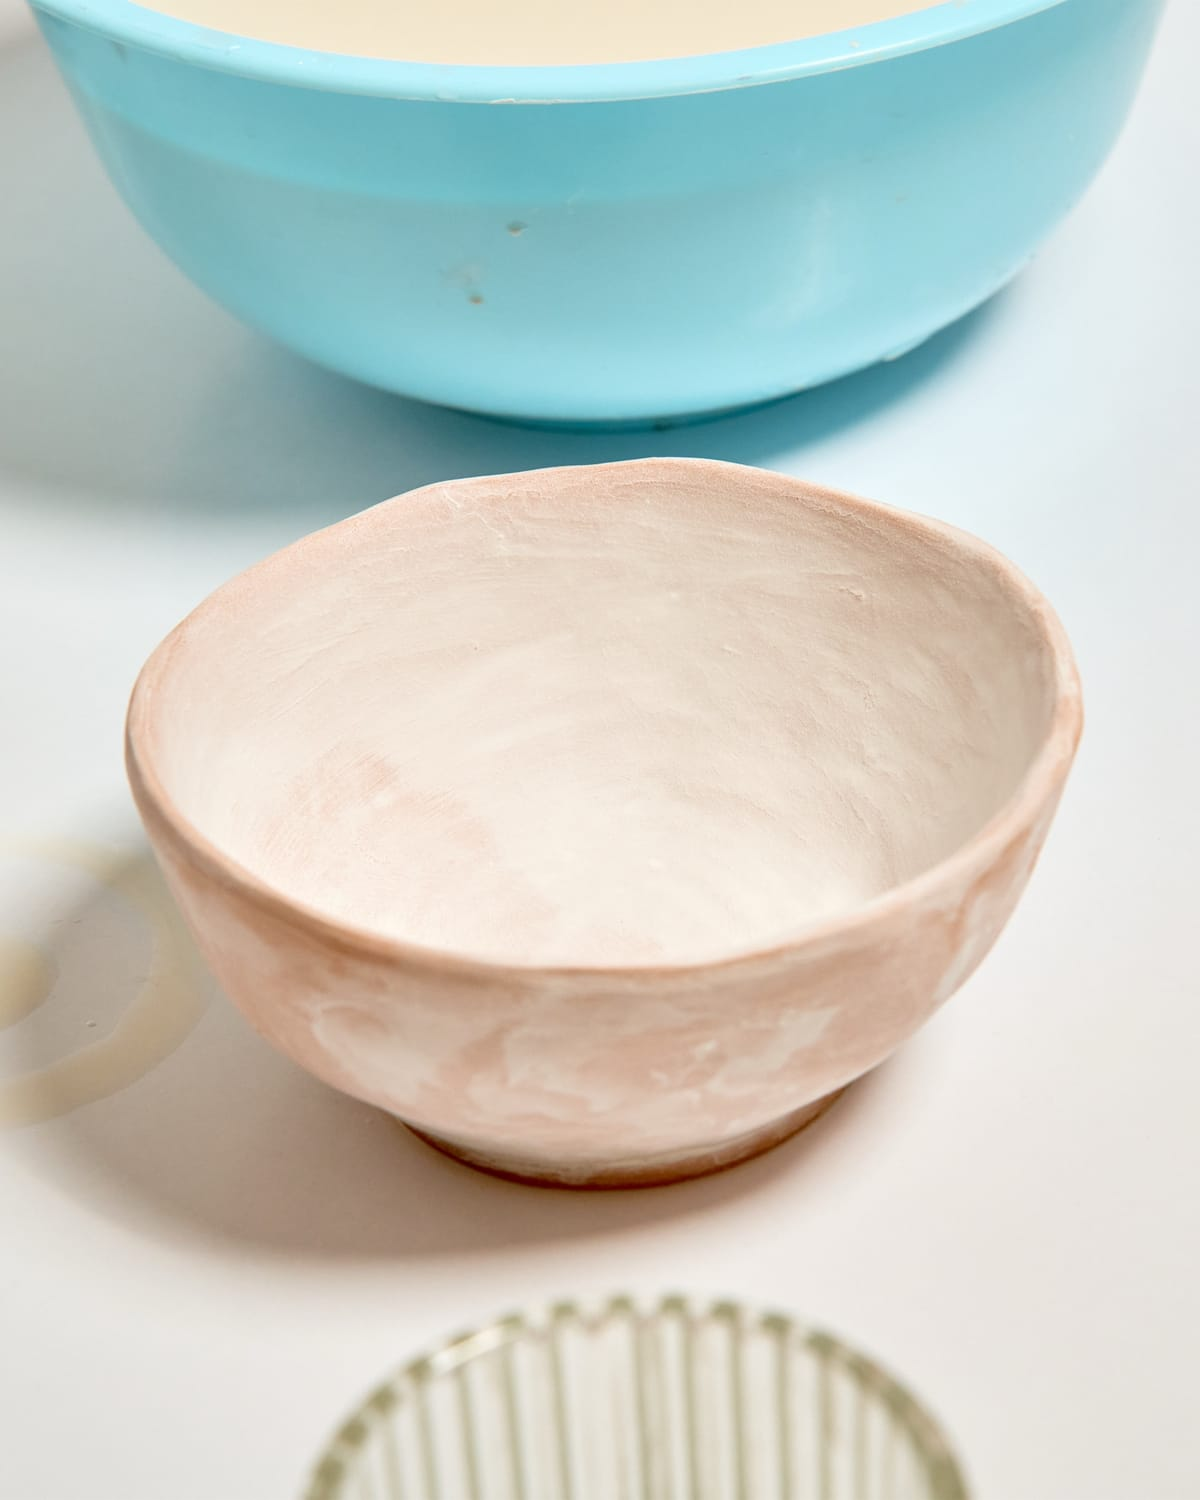
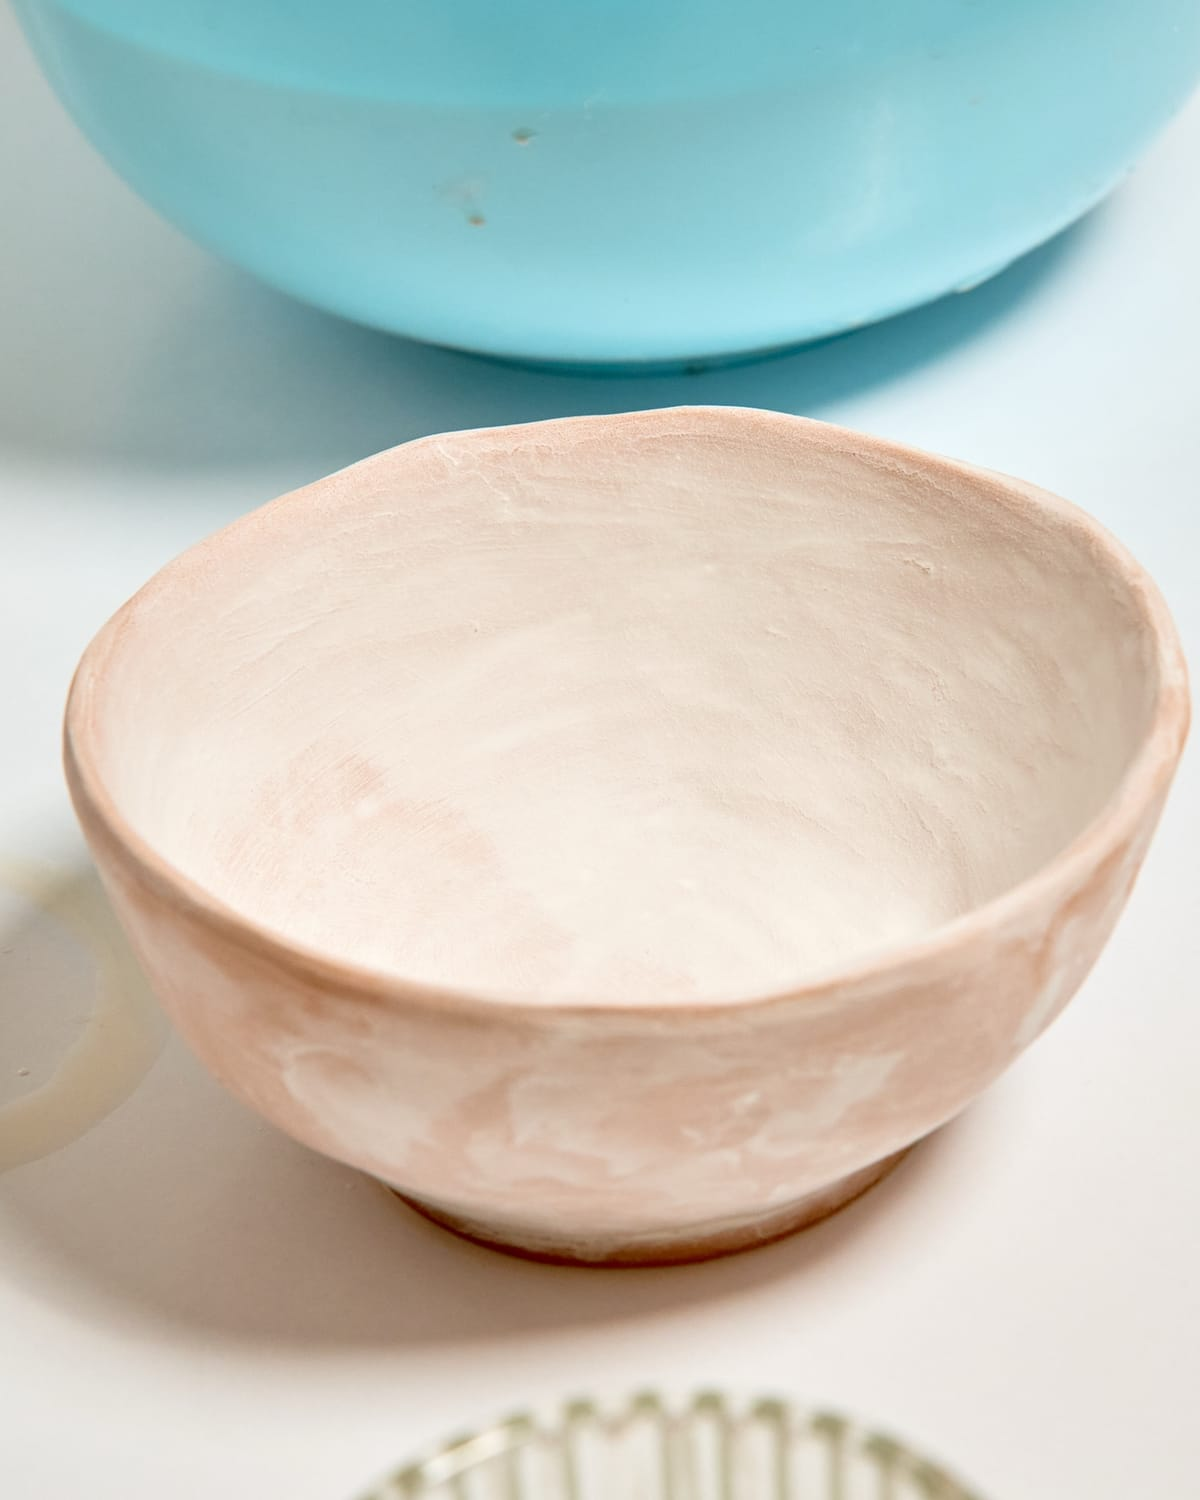
Home: apply designer review (compact form fits the hero, bare ranges in table cells, card 01 Big Dodzy photo, tighter market and studios crops, flush footer, 2-column phone footer, FAQ 16px)

diff --git a/src/app/(frontend)/page.tsx b/src/app/(frontend)/page.tsx
@@ -142,7 +142,6 @@ export default async function HomePage() {
             <PhotoCard key={c.href} n={String(i + 1).padStart(2, '0')} title={c.title} text={c.text} cta={c.cta} href={c.href} tone={c.tone} photo={c.photo} />
           ))}
         </div>
-        <p className="m-0 mt-3 font-mono text-[11px] tracking-[.05em] text-ink-2 uppercase">Фото до напряму 01: pepe nero, Unsplash (CC0).</p>
       </section>
 
       {/* How it works */}
@@ -176,7 +175,7 @@ export default async function HomePage() {
         <SectionHead variant="poster" id="market" kicker={`Коротко про ринок · оновлено ${site.dataUpdated}`} title={<>Скільки коштує <Italic>і скільки часу займає</Italic></>} more={{ label: 'Ціни 2026', href: '/tsiny-2026' }} />
         <div className="grid gap-[clamp(24px,4vw,56px)] pt-[clamp(22px,3vw,40px)] lg:grid-cols-[minmax(0,4fr)_minmax(0,8fr)]">
           <figure className="m-0 flex flex-col">
-            <Image src={sitePhotos.market.src} alt={sitePhotos.market.alt} width={sitePhotos.market.width} height={sitePhotos.market.height} sizes="(min-width:960px) 33vw, 100vw" className="aspect-[4/5] w-full flex-1 object-cover lg:aspect-auto lg:min-h-[420px]" />
+            <Image src={sitePhotos.market.src} alt={sitePhotos.market.alt} width={sitePhotos.market.width} height={sitePhotos.market.height} sizes="(min-width:960px) 33vw, 100vw" className="aspect-[4/3] w-full flex-1 object-cover lg:aspect-auto lg:min-h-[420px]" />
           </figure>
           <div className="grid content-start gap-[18px]">
             <QuoteBlock
@@ -201,13 +200,13 @@ export default async function HomePage() {
             </div>
             <DataTable
               caption="Типові формати і ціни, 2026"
-              columns={[{ key: 'what', label: 'Що' }, { key: 'price', label: 'Типова ціна' }, { key: 'term', label: 'Термін' }, { key: 'more', label: 'Детальніше' }]}
+              columns={[{ key: 'what', label: 'Що' }, { key: 'price', label: 'Типова ціна, здебільшого' }, { key: 'term', label: 'Термін' }, { key: 'more', label: 'Детальніше' }]}
               rows={[
                 ['Партія посуду для закладу', 'за запитом, залежить від кількості', site.lead.batch, 'Посуд для ресторанів', '/dlya-biznesu/posud-dlya-restoraniv'],
                 ['Чашки з логотипом', 'за запитом', site.lead.logo, 'Чашки з логотипом', '/dlya-biznesu/chashky-z-lohotypom'],
-                ['Корпоратив з ліплення з глини', f.range('corporate'), 'бронювання за 1–3 тижні', 'Корпоративи', '/dlya-biznesu/korporatyv-lipennya-z-hlyny'],
-                ['Разовий майстер-клас', f.range('group'), 'запис на тиждень уперед', 'За містами', '/maister-klasy'],
-                ['Індивідуальний майстер-клас', f.range('private'), 'за домовленістю', 'За містами', '/maister-klasy'],
+                ['Корпоратив з ліплення з глини', f.range('corporate', { bare: true }), 'бронювання за 1–3 тижні', 'Корпоративи', '/dlya-biznesu/korporatyv-lipennya-z-hlyny'],
+                ['Разовий майстер-клас', f.range('group', { bare: true }), 'запис на тиждень уперед', 'За містами', '/maister-klasy'],
+                ['Індивідуальний майстер-клас', f.range('private', { bare: true }), 'за домовленістю', 'За містами', '/maister-klasy'],
               ].map((r) => ({ what: r[0], price: nobreak(r[1]), term: nobreak(r[2]), more: <Link href={r[4]}>{r[3]}</Link> }))}
             />
           </div>
@@ -277,7 +276,7 @@ export default async function HomePage() {
       </div>
 
       {/* For studios */}
-      <Panel as="section" tone="ink" bleed className={section} id="studios" aria-label="Для студій і майстрів">
+      <Panel as="section" tone="ink" bleed className={section} id="studios" aria-label="Для студій і майстрів" data-flush-footer="">
         <div className="grid items-center gap-[clamp(24px,4vw,56px)] lg:grid-cols-[minmax(0,4fr)_minmax(0,8fr)]">
           <figure className="m-0">
             <Image src={sitePhotos.forStudios.src} alt={sitePhotos.forStudios.alt} width={sitePhotos.forStudios.width} height={sitePhotos.forStudios.height} sizes="(min-width:960px) 33vw, 100vw" className="aspect-[4/3] w-full object-cover object-[center_30%] lg:aspect-[3/4]" />

diff --git a/src/components/site/RequestForm.client.tsx b/src/components/site/RequestForm.client.tsx
@@ -231,8 +231,59 @@ export function RequestForm({
       </form>
     )
 
+  // Compact (home hero): the same fields, paired in rows so the panel is no taller than the hero text; a short «Відповідь напряму від студій»
+  // sits by the button (the 5% model is stated in the FAQ and the footer).
+  if (compact) {
+    const pair = 'grid grid-cols-2 gap-x-4 [&>*:last-child:nth-child(odd)]:col-span-2'
+    return (
+      <form id="zapyt-forma" data-tone="cobalt" onSubmit={onSubmit} aria-labelledby={`${uid}-h`} className={`${panel} p-[clamp(16px,2vw,24px)]`} noValidate>
+        <Kicker>Запит · безкоштовно</Kicker>
+        <h2 id={`${uid}-h`} className="m-0 mt-1 mb-1.5 font-display text-[18px] leading-[1.15] font-semibold sm:text-[19px]">
+          Опишіть, що потрібно — відповідять 3–5 студій
+        </h2>
+        <div className={pair}>
+          <Field label="Що потрібно" htmlFor={`${uid}-what`}>
+            <Select id={`${uid}-what`} name="what" value={what} onChange={(e) => setWhat(e.target.value)}>
+              {WHAT.map((w) => (
+                <option key={w.value} value={w.value}>
+                  {w.label}
+                </option>
+              ))}
+            </Select>
+          </Field>
+          {kind.qty && (
+            <Field label={kind.qty} htmlFor={`${uid}-qty`}>
+              <Input id={`${uid}-qty`} name="quantity" inputMode="numeric" placeholder={kind.qtyPh} />
+            </Field>
+          )}
+          <Field label={kind.date} htmlFor={`${uid}-date`}>
+            <Input id={`${uid}-date`} name="deadline" placeholder={kind.datePh} />
+          </Field>
+          <Field label="Місто" htmlFor={`${uid}-city`}>
+            <Input id={`${uid}-city`} name="city" value={city} onChange={(e) => setCity(e.target.value)} placeholder="Ваше місто" autoComplete="address-level2" />
+          </Field>
+          <Field label="Телефон або Telegram" htmlFor={`${uid}-tel`}>
+            <Input id={`${uid}-tel`} name="contactPhoneOrTelegram" inputMode="tel" placeholder="+380… або @нік" />
+          </Field>
+          <Field label="Email" htmlFor={`${uid}-mail`}>
+            <Input id={`${uid}-mail`} name="contactEmail" type="email" placeholder="ви@компанія.ua" />
+          </Field>
+        </div>
+        {kind.logo && <Checkbox name="logo" label="Потрібен логотип" className="!py-1.5" />}
+        {honeypot}
+        <div className="mt-2 flex flex-wrap items-center gap-x-3.5 gap-y-2">
+          <Button type="submit" disabled={state === 'sending'}>
+            {state === 'sending' ? 'Надсилаємо…' : 'Надіслати запит'}
+          </Button>
+          <small className="font-mono text-[11px] tracking-[.03em] text-on-cobalt-2">Відповідь напряму від студій</small>
+        </div>
+        {errorLine}
+      </form>
+    )
+  }
+
   return (
-    <form id={compact ? 'zapyt-forma' : undefined} data-tone="cobalt" onSubmit={onSubmit} aria-labelledby={`${uid}-h`} className={panel} noValidate>
+    <form data-tone="cobalt" onSubmit={onSubmit} aria-labelledby={`${uid}-h`} className={panel} noValidate>
       <Kicker>Запит · безкоштовно</Kicker>
       <h2 id={`${uid}-h`} className="m-0 mt-1.5 mb-2 font-display text-[19px] leading-[1.15] font-semibold sm:text-xl">
         Опишіть, що потрібно — відповідять 3–5 студій
@@ -261,11 +312,9 @@ export function RequestForm({
       <Field label="Місто" htmlFor={`${uid}-city`}>
         <Input id={`${uid}-city`} name="city" value={city} onChange={(e) => setCity(e.target.value)} placeholder="Ваше місто" autoComplete="address-level2" />
       </Field>
-      {!compact && (
-        <Field label="Деталі" htmlFor={`${uid}-details`}>
-          <Textarea id={`${uid}-details`} name="details" rows={3} placeholder={kind.details} value={details} onChange={(e) => setDetails(e.target.value)} />
-        </Field>
-      )}
+      <Field label="Деталі" htmlFor={`${uid}-details`}>
+        <Textarea id={`${uid}-details`} name="details" rows={3} placeholder={kind.details} value={details} onChange={(e) => setDetails(e.target.value)} />
+      </Field>
       <FieldRow>
         <Field label="Телефон або Telegram" htmlFor={`${uid}-tel`}>
           <Input id={`${uid}-tel`} name="contactPhoneOrTelegram" inputMode="tel" placeholder="+380… або @нік" />

diff --git a/src/content/photos.ts b/src/content/photos.ts
@@ -37,8 +37,8 @@ export const sitePhotos = {
   // Wordmark window (8:3 strip, decorative: the text on top carries the meaning). Frame 331; the phone file is the same crop at 1200 px.
   wordmarkDesktop: { src: '/images/site/home-wordmark-1.jpg', width: 2400, height: 900, alt: '' },
   wordmarkMobile: { src: '/images/site/home-wordmark-mobile-1.jpg', width: 1200, height: 450, alt: '' },
-  // Home «Що ви шукаєте?», cards 01–06 (1:1). 01: stock CC0 placeholder (pepe nero, Unsplash; no archive frame of a dish in a restaurant).
-  cardVenues: slot(docPhotos.restaurantTable),
+  // Home «Що ви шукаєте?», cards 01–06 (1:1). 01 is an external Unsplash photo (Big Dodzy; no archive frame of a dish in a restaurant), see public/images/site/CREDITS.md.
+  cardVenues: { src: '/images/site/home-path-01-1.jpg', width: 1200, height: 1200, alt: 'Страва в керамічній мисці ручної роботи, яку тримають у руках' },
   cardLogo: { src: '/images/site/home-path-02-1.jpg', width: 1200, height: 1200, alt: 'Відтиск штампа-квітки на сирій тарілці з рожевим краєм' }, // 542
   cardGifts: { src: '/images/site/home-path-03-1.jpg', width: 1200, height: 1200, alt: 'Чашка ручної роботи з червоними сердечками на дерев’яній полиці' }, // 82
   cardPair: { src: '/images/site/home-path-04-1.jpg', width: 1200, height: 1200, alt: 'Дві пари рук тримають свіжу миску на гончарному колі, вигляд згори' }, // 346

diff --git a/src/app/(frontend)/globals.css b/src/app/(frontend)/globals.css
@@ -249,7 +249,7 @@
 
   /* FAQ: native details with a +/– sign. */
   .ui-faq details { border-bottom: 1px solid var(--color-rule); }
-  .ui-faq summary { list-style: none; cursor: pointer; display: grid; grid-template-columns: minmax(0, 1fr) auto; gap: 20px; align-items: baseline; padding: 15px 0; font-family: var(--font-display); font-weight: 600; font-size: 15.5px; line-height: 1.25; }
+  .ui-faq summary { list-style: none; cursor: pointer; display: grid; grid-template-columns: minmax(0, 1fr) auto; gap: 20px; align-items: baseline; padding: 15px 0; font-family: var(--font-display); font-weight: 600; font-size: 16px; line-height: 1.25; }
   .ui-faq summary::-webkit-details-marker { display: none; }
   .ui-faq summary:hover { color: var(--color-cobalt); }
   .ui-faq-pm { font-family: var(--font-mono); font-size: 18px; color: var(--color-cobalt); }
@@ -435,6 +435,13 @@
   }
 
   @media (prefers-reduced-motion: reduce) { .ui-arrow, .ui-pcard img, .ui-vessel img, .nav-caret { transition: none; } }
+}
+
+/* A page that ends with a full-bleed dark panel (home) lets the footer rule butt against it. */
+@layer utilities {
+  main:has([data-flush-footer]) ~ footer {
+    margin-top: 0;
+  }
 }
 
 /* 1A container: removed in step 9 with Bits.container. */

diff --git a/src/lib/facts.ts b/src/lib/facts.ts
@@ -18,10 +18,11 @@ export const facts = cache(async () => {
     return x ? { min: x.p10, max: x.p90, median: x.median, n: x.n, unit: x.cat.unit } : null
   }
   /** «здебільшого 300–1 900 грн з особи» (or the fallback when too few studios publish a price). */
-  const range = (key: string, opts: { unit?: boolean; fallback?: string } = {}) => {
+  const range = (key: string, opts: { unit?: boolean; fallback?: string; bare?: boolean } = {}) => {
     const f = get(key)
     if (!f) return opts.fallback ?? 'за прайсом студії'
-    return `здебільшого ${fmt(f.min)}–${fmt(f.max)} грн${opts.unit === false ? '' : ` ${f.unit}`}`
+    // bare: the range without the word «здебільшого», for table cells whose column header already says it
+    return `${opts.bare ? '' : 'здебільшого '}${fmt(f.min)}–${fmt(f.max)} грн${opts.unit === false ? '' : ` ${f.unit}`}`
   }
   /** «1 000 грн» median, or '' */
   const median = (key: string) => {

diff --git a/src/components/site/SiteFooter.tsx b/src/components/site/SiteFooter.tsx
@@ -11,8 +11,8 @@ import { site } from '@/content/site'
 export function SiteFooter() {
   return (
     <footer className={`${wrap} mt-[clamp(56px,8vw,96px)] border-t-2 border-ink pt-[26px] pb-11`}>
-      <div className="grid grid-cols-1 gap-[18px] font-mono text-[11.5px] leading-[1.7] tracking-[.03em] text-ink-2 sm:grid-cols-2 lg:grid-cols-[minmax(0,1.3fr)_repeat(4,minmax(0,1fr))]">
-        <div className="grid content-start gap-2 sm:col-span-2 lg:col-span-1">
+      <div className="grid grid-cols-2 gap-[18px] font-mono text-[11.5px] leading-[1.7] tracking-[.03em] text-ink-2 lg:grid-cols-[minmax(0,1.3fr)_repeat(4,minmax(0,1fr))]">
+        <div className="col-span-2 grid content-start gap-2 lg:col-span-1">
           <Link href="/" className="inline-flex items-center gap-2 font-display text-base leading-none font-extrabold tracking-[.02em] text-ink uppercase no-underline hover:text-ink">
             <Mark size={22} />
             Глина

diff --git a/src/components/ui/SectionHead.tsx b/src/components/ui/SectionHead.tsx
@@ -17,7 +17,7 @@ export function SectionHead({ title, id, kicker, note, more, level = 2, variant 
         </H>
         {note && <p className="m-0 max-w-read text-[14.5px] leading-[1.45] text-ink-2">{note}</p>}
       </div>
-      {more && <MoreLink href={more.href} pad={false} className="md:pb-1">{more.label}</MoreLink>}
+      {more && <MoreLink href={more.href} pad={false} className="py-2 md:py-0 md:pb-1">{more.label}</MoreLink>}
     </div>
   )
 }

diff --git a/public/images/site/CREDITS.md b/public/images/site/CREDITS.md
@@ -1,0 +1,10 @@
+# Photos in public/images/site
+
+Almost every file here is cut from the owner's own archive (`experiments/photo-source`, frame numbers in
+`src/content/photos.ts` and `docs/design/photo-plan.md`); no credit line is shown for them.
+
+External photos (shown without an on-page credit, recorded here):
+
+| File | Author | License | Source |
+|---|---|---|---|
+| home-path-01-1.jpg | Big Dodzy | Unsplash License (free to use, no attribution required) | https://unsplash.com/photos/person-holding-black-ceramic-bowl-with-vegetable-salad-KmYhY6lZxzs — downloaded from the photo's own page (2400 px), cropped 1:1 to 1200 px, metadata removed. Used for home card 01 (tableware for venues) because the archive has no frame of a dish in a restaurant. |
